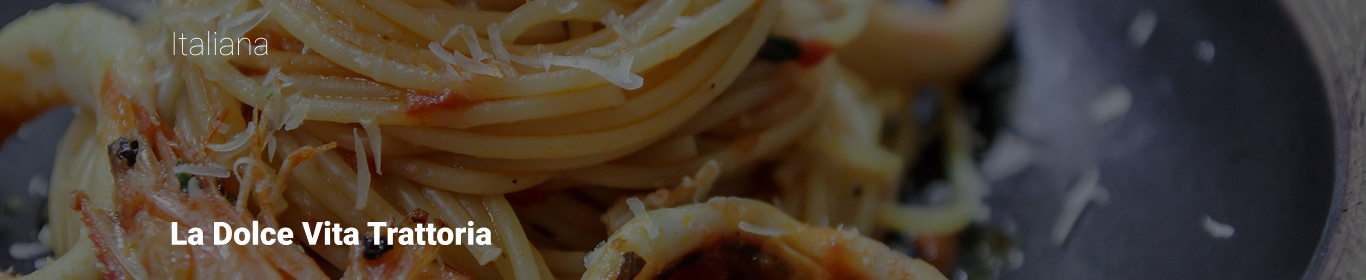
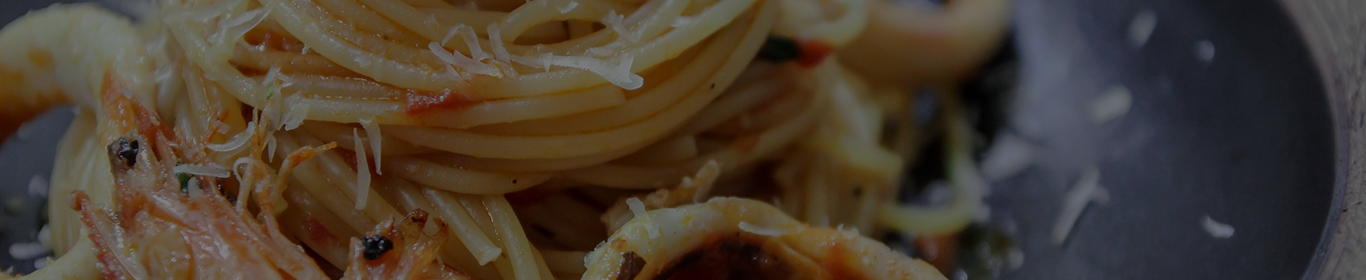
fix layout

Changed region(s): [[0.123, 0.7714, 0.369, 0.8857], [0.123, 0.1143, 0.2152, 0.2]]

diff --git a/src/pages/Products/Perfil/index.tsx b/src/pages/Products/Perfil/index.tsx
@@ -5,7 +5,7 @@ import fundo from "../../../assets/images/elements/fundo.png"
 import Footer from "../../../components/Footer"
 import Modal from "../../Order/Modal"
 import { Container, Fundo, Logo } from "../../../components/Header/styles"
-import { ContainerFlavors, ContainerInfos, ContainerItensFlavors, Info, Presentation, CardFlavors, ParagraphFlavors, TitleFlavors, ButtonFlavors } from "./styles"
+import { ContainerFlavors, ContainerInfos, ContainerItensFlavors, Info, Presentation, CardFlavors, ParagraphFlavors, TitleFlavors, ButtonFlavors, Flavor, TitleHeader } from "./styles"
 import { Image, Infos } from "../../../components/Foods/styles"
 import { useState } from "react"
 
@@ -20,7 +20,11 @@ const Perfil = () => {
           <Info>Restaurantes</Info>
           <Info>0 produto(s) no carrinho</Info>
         </ContainerInfos>
-          <Presentation src={apresentacao} alt="imagem representatica do prato" />
+          <Presentation>
+            <img src={apresentacao} alt="imagem de fundo macarrao" />
+            <Flavor>Italiana</Flavor>
+            <TitleHeader>La Dolce Vita Trattoria</TitleHeader>
+          </Presentation>
       </Container>
       <ContainerFlavors>
         <ContainerItensFlavors>

diff --git a/src/pages/Products/Perfil/styles.ts b/src/pages/Products/Perfil/styles.ts
@@ -17,11 +17,35 @@ export const Info = styled.p`
   color: #E66767;
 `
 
-export const Presentation = styled.img`
+export const Presentation = styled.div`
   position: absolute;
-  top: 180px;
   width: 100%;
   height: 300px;
+  margin-top: 160px;
+
+  img {
+    display: block;
+    width: 100%;
+    height: 300px;
+  }
+`
+
+export const Flavor = styled.h2`
+  position: absolute;
+  top: 20px;
+  left: 220px;
+  color: #fff;
+  font-size: 32px;  
+  font-weight: 100;
+`
+
+export const TitleHeader = styled.h2`
+  font-size: 32px;
+  font-weight: 900;
+  position: absolute;
+  bottom: 20px;
+  left: 220px;
+  color: #fff;
 `
 
 export type BackgroundProps = {

diff --git a/src/components/Header/styles.ts b/src/components/Header/styles.ts
@@ -4,7 +4,7 @@ export const Logo = styled.img`
   display: block;
   margin: 0 auto;
   position: absolute;
-  top: 50px;
+  top: 35px;
 `
 
 export const Fundo = styled.img`
@@ -27,12 +27,12 @@ export const Info = styled.h3`
   justify-content: center;
   position: absolute;
 
-  max-width: 460px;
+  max-width: 700px;
   width: 100%;
 
   text-align: center;
-  padding-top: 220px;
+  padding-top: 175px;
   color: #E66767;
   font-weight: 900;
-  font-size: 24px;
+  font-size: 36px;
 `
